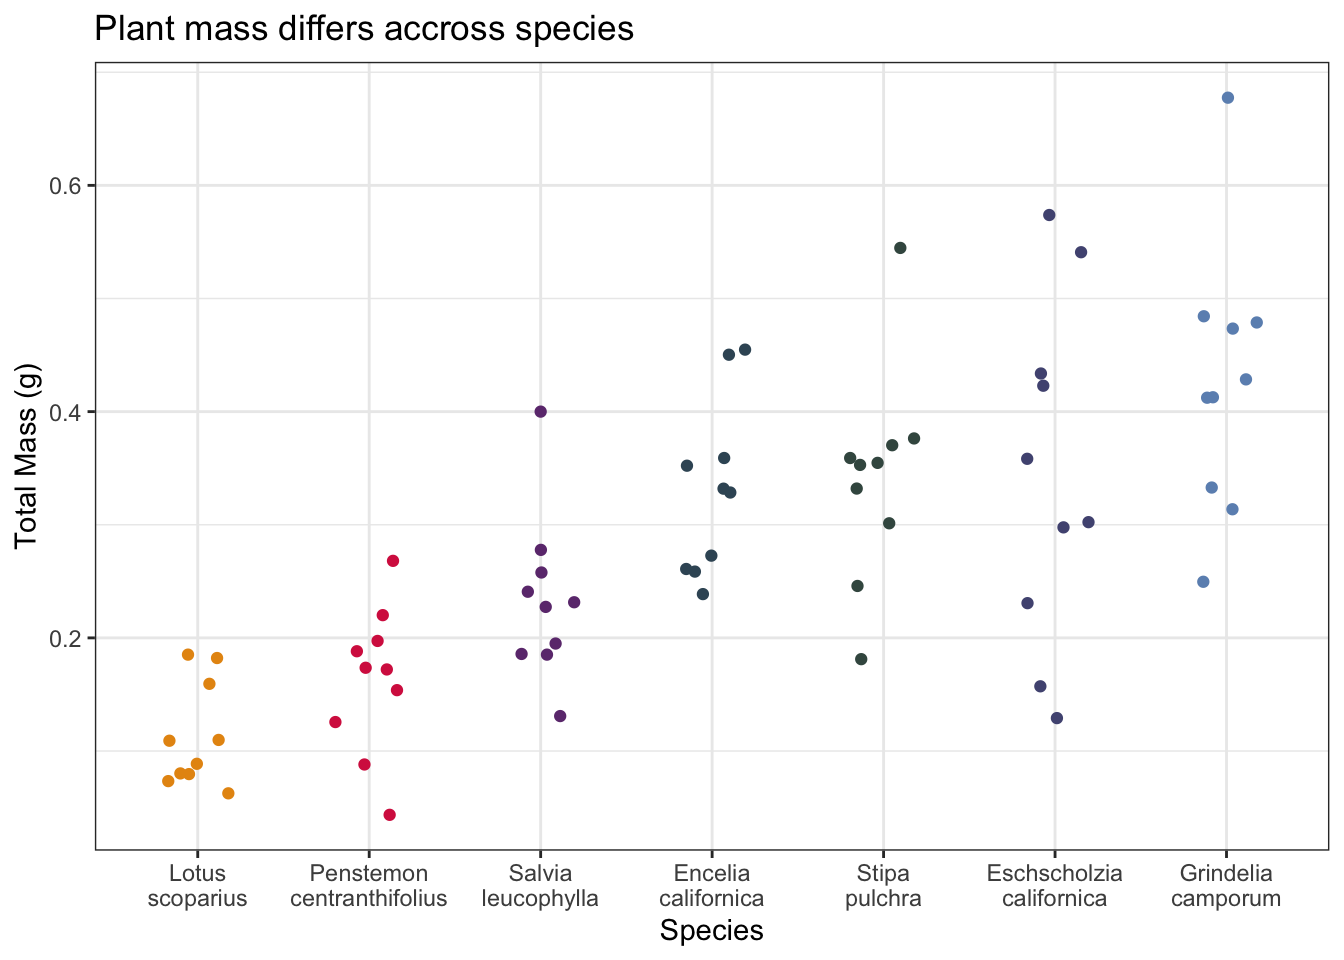
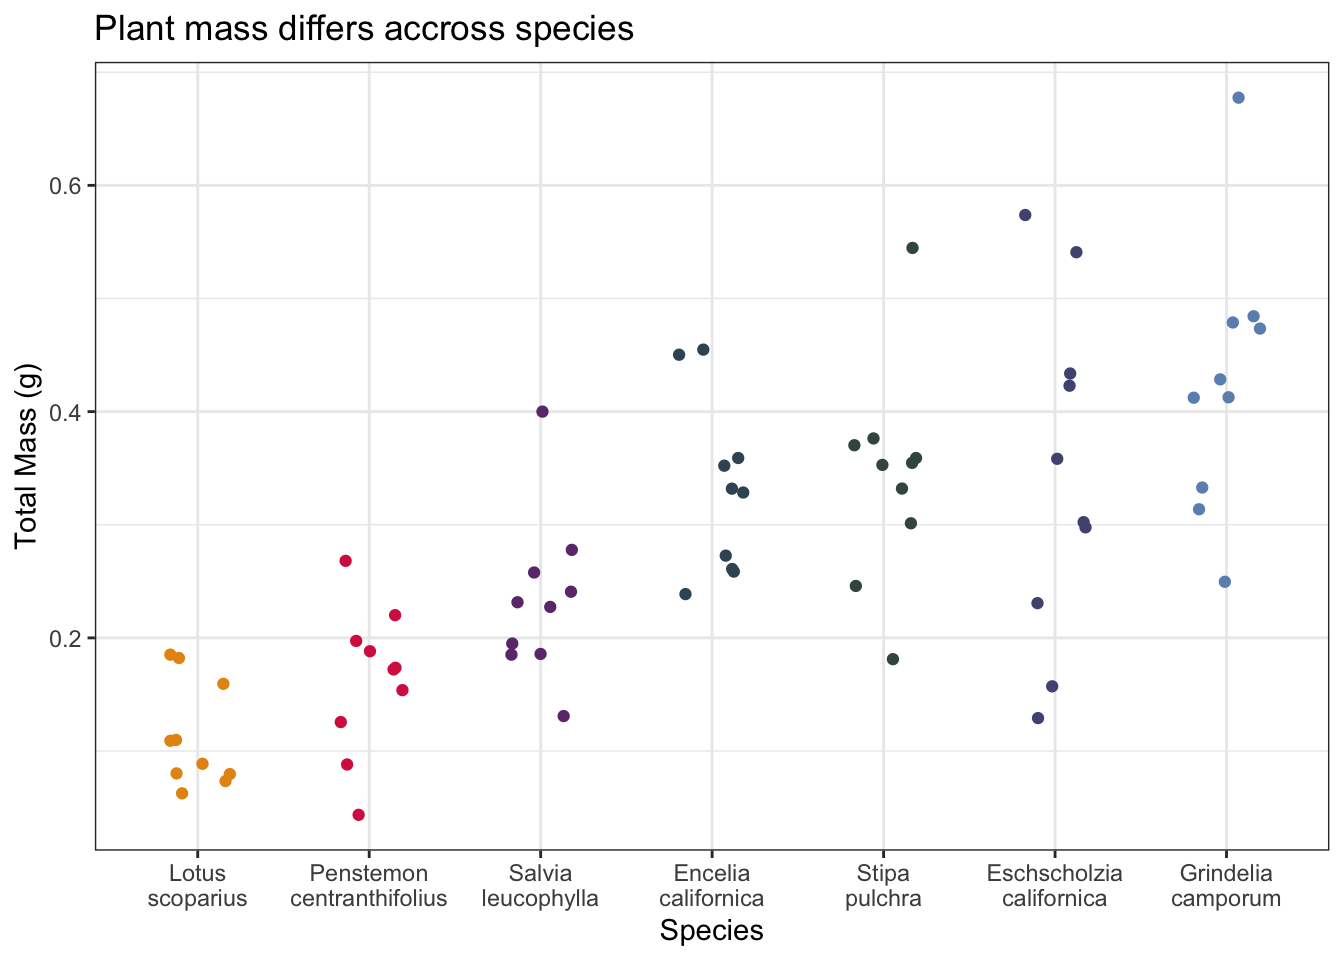
fitting and selecting models, generating predictions, making final figure

diff --git a/code/workshop-code.html b/code/workshop-code.html
@@ -73,6 +73,35 @@ pre > code.sourceCode > span > a:first-child::before { text-decoration: underlin
 <link href="workshop-code_files/libs/bootstrap/bootstrap-icons.css" rel="stylesheet">
 <link href="workshop-code_files/libs/bootstrap/bootstrap-d6a003b94517c951b2d65075d42fb01b.min.css" rel="stylesheet" append-hash="true" id="quarto-bootstrap" data-mode="light">
 
+  <script src="https://cdnjs.cloudflare.com/polyfill/v3/polyfill.min.js?features=es6"></script>
+  <script src="https://cdn.jsdelivr.net/npm/mathjax@3/es5/tex-chtml-full.js" type="text/javascript"></script>
+
+<script type="text/javascript">
+const typesetMath = (el) => {
+  if (window.MathJax) {
+    // MathJax Typeset
+    window.MathJax.typeset([el]);
+  } else if (window.katex) {
+    // KaTeX Render
+    var mathElements = el.getElementsByClassName("math");
+    var macros = [];
+    for (var i = 0; i < mathElements.length; i++) {
+      var texText = mathElements[i].firstChild;
+      if (mathElements[i].tagName == "SPAN" && texText && texText.data) {
+        window.katex.render(texText.data, mathElements[i], {
+          displayMode: mathElements[i].classList.contains('display'),
+          throwOnError: false,
+          macros: macros,
+          fleqn: false
+        });
+      }
+    }
+  }
+}
+window.Quarto = {
+  typesetMath
+};
+</script>
 
 </head>
 
@@ -301,16 +330,16 @@ pre > code.sourceCode > span > a:first-child::before { text-decoration: underlin
 <pre><code># A tibble: 10 × 4
    species_name               water_treatment    sla total_g
    &lt;fct&gt;                      &lt;fct&gt;            &lt;dbl&gt;   &lt;dbl&gt;
- 1 Penstemon centranthifolius Drought stressed 161.    0.174
- 2 Penstemon centranthifolius Well watered     129.    0.220
- 3 Salvia leucophylla         Well watered      99.7   0.241
- 4 Salvia leucophylla         Well watered     127.    0.258
- 5 Grindelia camporum         Well watered     205.    0.412
- 6 Penstemon centranthifolius Well watered     160.    0.172
- 7 Grindelia camporum         Well watered     213.    0.678
- 8 Grindelia camporum         Well watered     191.    0.484
- 9 Salvia leucophylla         Drought stressed  77.6   0.186
-10 Eschscholzia californica   Drought stressed 109.    0.298</code></pre>
+ 1 Lotus scoparius            Well watered     137.   0.109 
+ 2 Stipa pulchra              Well watered     159.   0.353 
+ 3 Lotus scoparius            Drought stressed  90.9  0.0796
+ 4 Lotus scoparius            Drought stressed 107.   0.159 
+ 5 Grindelia camporum         Drought stressed 171.   0.250 
+ 6 Encelia californica        Drought stressed 161.   0.273 
+ 7 Penstemon centranthifolius Well watered     158.   0.154 
+ 8 Salvia leucophylla         Well watered      99.7  0.241 
+ 9 Eschscholzia californica   Drought stressed 107.   0.302 
+10 Encelia californica        Drought stressed 196.   0.239 </code></pre>
 </div>
 </div>
 </section>
@@ -493,55 +522,154 @@ pre > code.sourceCode > span > a:first-child::before { text-decoration: underlin
 <h2 class="anchored" data-anchor-id="model-fitting">Model fitting</h2>
 <div class="cell">
 <div class="code-copy-outer-scaffold"><div class="sourceCode cell-code" id="cb11"><pre class="sourceCode r code-with-copy"><code class="sourceCode r"><span id="cb11-1"><a href="#cb11-1" aria-hidden="true" tabindex="-1"></a><span class="co"># model 0: null model</span></span>
-<span id="cb11-2"><a href="#cb11-2" aria-hidden="true" tabindex="-1"></a></span>
-<span id="cb11-3"><a href="#cb11-3" aria-hidden="true" tabindex="-1"></a></span>
-<span id="cb11-4"><a href="#cb11-4" aria-hidden="true" tabindex="-1"></a><span class="co"># model 1: all predictors</span></span>
+<span id="cb11-2"><a href="#cb11-2" aria-hidden="true" tabindex="-1"></a>model0 <span class="ot">&lt;-</span><span class="fu">lm</span>(</span>
+<span id="cb11-3"><a href="#cb11-3" aria-hidden="true" tabindex="-1"></a>  total_g <span class="sc">~</span> <span class="dv">1</span>, <span class="co"># no predicotrs</span></span>
+<span id="cb11-4"><a href="#cb11-4" aria-hidden="true" tabindex="-1"></a>  <span class="at">data =</span> drought_exp_clean)</span>
 <span id="cb11-5"><a href="#cb11-5" aria-hidden="true" tabindex="-1"></a></span>
-<span id="cb11-6"><a href="#cb11-6" aria-hidden="true" tabindex="-1"></a></span>
-<span id="cb11-7"><a href="#cb11-7" aria-hidden="true" tabindex="-1"></a><span class="co"># model 2: SLA and water treatment</span></span>
-<span id="cb11-8"><a href="#cb11-8" aria-hidden="true" tabindex="-1"></a></span>
-<span id="cb11-9"><a href="#cb11-9" aria-hidden="true" tabindex="-1"></a></span>
-<span id="cb11-10"><a href="#cb11-10" aria-hidden="true" tabindex="-1"></a><span class="co"># model 3: SLA and species</span></span>
+<span id="cb11-6"><a href="#cb11-6" aria-hidden="true" tabindex="-1"></a><span class="co"># model 1: all predictors</span></span>
+<span id="cb11-7"><a href="#cb11-7" aria-hidden="true" tabindex="-1"></a></span>
+<span id="cb11-8"><a href="#cb11-8" aria-hidden="true" tabindex="-1"></a>model1 <span class="ot">&lt;-</span><span class="fu">lm</span>(</span>
+<span id="cb11-9"><a href="#cb11-9" aria-hidden="true" tabindex="-1"></a>  total_g <span class="sc">~</span> sla <span class="sc">+</span> water_treatment <span class="sc">+</span> species_name,</span>
+<span id="cb11-10"><a href="#cb11-10" aria-hidden="true" tabindex="-1"></a>  <span class="at">data =</span> drought_exp_clean)</span>
 <span id="cb11-11"><a href="#cb11-11" aria-hidden="true" tabindex="-1"></a></span>
-<span id="cb11-12"><a href="#cb11-12" aria-hidden="true" tabindex="-1"></a></span>
-<span id="cb11-13"><a href="#cb11-13" aria-hidden="true" tabindex="-1"></a><span class="co"># model 4: water treatment and species</span></span>
-<span id="cb11-14"><a href="#cb11-14" aria-hidden="true" tabindex="-1"></a></span>
-<span id="cb11-15"><a href="#cb11-15" aria-hidden="true" tabindex="-1"></a></span>
-<span id="cb11-16"><a href="#cb11-16" aria-hidden="true" tabindex="-1"></a><span class="co"># model 5: SLA</span></span>
+<span id="cb11-12"><a href="#cb11-12" aria-hidden="true" tabindex="-1"></a><span class="co"># model 2: SLA and water treatment</span></span>
+<span id="cb11-13"><a href="#cb11-13" aria-hidden="true" tabindex="-1"></a></span>
+<span id="cb11-14"><a href="#cb11-14" aria-hidden="true" tabindex="-1"></a>model2 <span class="ot">&lt;-</span><span class="fu">lm</span>(</span>
+<span id="cb11-15"><a href="#cb11-15" aria-hidden="true" tabindex="-1"></a>  total_g <span class="sc">~</span> sla <span class="sc">+</span> water_treatment, </span>
+<span id="cb11-16"><a href="#cb11-16" aria-hidden="true" tabindex="-1"></a>  <span class="at">data =</span> drought_exp_clean)</span>
 <span id="cb11-17"><a href="#cb11-17" aria-hidden="true" tabindex="-1"></a></span>
-<span id="cb11-18"><a href="#cb11-18" aria-hidden="true" tabindex="-1"></a></span>
-<span id="cb11-19"><a href="#cb11-19" aria-hidden="true" tabindex="-1"></a><span class="co"># model 6: water treatment</span></span>
-<span id="cb11-20"><a href="#cb11-20" aria-hidden="true" tabindex="-1"></a></span>
-<span id="cb11-21"><a href="#cb11-21" aria-hidden="true" tabindex="-1"></a></span>
-<span id="cb11-22"><a href="#cb11-22" aria-hidden="true" tabindex="-1"></a><span class="co"># model 7: species</span></span></code></pre></div><button title="Copy to Clipboard" class="code-copy-button"><i class="bi"></i></button></div>
+<span id="cb11-18"><a href="#cb11-18" aria-hidden="true" tabindex="-1"></a><span class="co"># model 3: SLA and species</span></span>
+<span id="cb11-19"><a href="#cb11-19" aria-hidden="true" tabindex="-1"></a></span>
+<span id="cb11-20"><a href="#cb11-20" aria-hidden="true" tabindex="-1"></a>model3 <span class="ot">&lt;-</span><span class="fu">lm</span>(</span>
+<span id="cb11-21"><a href="#cb11-21" aria-hidden="true" tabindex="-1"></a>  total_g <span class="sc">~</span> sla <span class="sc">+</span> species_name, </span>
+<span id="cb11-22"><a href="#cb11-22" aria-hidden="true" tabindex="-1"></a>  <span class="at">data =</span> drought_exp_clean)</span>
+<span id="cb11-23"><a href="#cb11-23" aria-hidden="true" tabindex="-1"></a></span>
+<span id="cb11-24"><a href="#cb11-24" aria-hidden="true" tabindex="-1"></a><span class="co"># model 4: water treatment and species</span></span>
+<span id="cb11-25"><a href="#cb11-25" aria-hidden="true" tabindex="-1"></a></span>
+<span id="cb11-26"><a href="#cb11-26" aria-hidden="true" tabindex="-1"></a>model4 <span class="ot">&lt;-</span><span class="fu">lm</span>(</span>
+<span id="cb11-27"><a href="#cb11-27" aria-hidden="true" tabindex="-1"></a>  total_g <span class="sc">~</span> water_treatment <span class="sc">+</span> species_name, </span>
+<span id="cb11-28"><a href="#cb11-28" aria-hidden="true" tabindex="-1"></a>  <span class="at">data =</span> drought_exp_clean)</span>
+<span id="cb11-29"><a href="#cb11-29" aria-hidden="true" tabindex="-1"></a></span>
+<span id="cb11-30"><a href="#cb11-30" aria-hidden="true" tabindex="-1"></a><span class="co"># model 5: SLA</span></span>
+<span id="cb11-31"><a href="#cb11-31" aria-hidden="true" tabindex="-1"></a></span>
+<span id="cb11-32"><a href="#cb11-32" aria-hidden="true" tabindex="-1"></a>model5 <span class="ot">&lt;-</span><span class="fu">lm</span>(</span>
+<span id="cb11-33"><a href="#cb11-33" aria-hidden="true" tabindex="-1"></a>  total_g <span class="sc">~</span> sla,</span>
+<span id="cb11-34"><a href="#cb11-34" aria-hidden="true" tabindex="-1"></a>  <span class="at">data =</span> drought_exp_clean)</span>
+<span id="cb11-35"><a href="#cb11-35" aria-hidden="true" tabindex="-1"></a></span>
+<span id="cb11-36"><a href="#cb11-36" aria-hidden="true" tabindex="-1"></a><span class="co"># model 6: water treatment</span></span>
+<span id="cb11-37"><a href="#cb11-37" aria-hidden="true" tabindex="-1"></a></span>
+<span id="cb11-38"><a href="#cb11-38" aria-hidden="true" tabindex="-1"></a>model6 <span class="ot">&lt;-</span><span class="fu">lm</span>(</span>
+<span id="cb11-39"><a href="#cb11-39" aria-hidden="true" tabindex="-1"></a>  total_g <span class="sc">~</span> water_treatment,</span>
+<span id="cb11-40"><a href="#cb11-40" aria-hidden="true" tabindex="-1"></a>  <span class="at">data =</span> drought_exp_clean)</span>
+<span id="cb11-41"><a href="#cb11-41" aria-hidden="true" tabindex="-1"></a></span>
+<span id="cb11-42"><a href="#cb11-42" aria-hidden="true" tabindex="-1"></a><span class="co"># model 7: species</span></span>
+<span id="cb11-43"><a href="#cb11-43" aria-hidden="true" tabindex="-1"></a></span>
+<span id="cb11-44"><a href="#cb11-44" aria-hidden="true" tabindex="-1"></a>model7 <span class="ot">&lt;-</span><span class="fu">lm</span>(</span>
+<span id="cb11-45"><a href="#cb11-45" aria-hidden="true" tabindex="-1"></a>  total_g <span class="sc">~</span> species_name,</span>
+<span id="cb11-46"><a href="#cb11-46" aria-hidden="true" tabindex="-1"></a>  <span class="at">data =</span> drought_exp_clean)</span></code></pre></div><button title="Copy to Clipboard" class="code-copy-button"><i class="bi"></i></button></div>
 </div>
 </section>
 <section id="model-selection" class="level2">
 <h2 class="anchored" data-anchor-id="model-selection">Model selection</h2>
 <p>Insert code to use the <code>AICc()</code> function to calculate the AIC for each model.</p>
 <p>Arrange by decreasing AIC.</p>
+<div class="cell">
+<div class="code-copy-outer-scaffold"><div class="sourceCode cell-code" id="cb12"><pre class="sourceCode r code-with-copy"><code class="sourceCode r"><span id="cb12-1"><a href="#cb12-1" aria-hidden="true" tabindex="-1"></a><span class="fu">AICc</span>(</span>
+<span id="cb12-2"><a href="#cb12-2" aria-hidden="true" tabindex="-1"></a>  model0,</span>
+<span id="cb12-3"><a href="#cb12-3" aria-hidden="true" tabindex="-1"></a>  model1,</span>
+<span id="cb12-4"><a href="#cb12-4" aria-hidden="true" tabindex="-1"></a>  model2,</span>
+<span id="cb12-5"><a href="#cb12-5" aria-hidden="true" tabindex="-1"></a>  model3,</span>
+<span id="cb12-6"><a href="#cb12-6" aria-hidden="true" tabindex="-1"></a>  model4,</span>
+<span id="cb12-7"><a href="#cb12-7" aria-hidden="true" tabindex="-1"></a>  model5,</span>
+<span id="cb12-8"><a href="#cb12-8" aria-hidden="true" tabindex="-1"></a>  model6,</span>
+<span id="cb12-9"><a href="#cb12-9" aria-hidden="true" tabindex="-1"></a>  model7</span>
+<span id="cb12-10"><a href="#cb12-10" aria-hidden="true" tabindex="-1"></a>) <span class="sc">|&gt;</span> </span>
+<span id="cb12-11"><a href="#cb12-11" aria-hidden="true" tabindex="-1"></a>  <span class="fu">arrange</span>(AICc)</span></code></pre></div><button title="Copy to Clipboard" class="code-copy-button"><i class="bi"></i></button></div>
+<div class="cell-output cell-output-stdout">
+<pre><code>       df       AICc
+model4  9 -156.19595
+model1 10 -153.75361
+model3  9 -124.07569
+model7  8 -120.30191
+model2  4  -95.82521
+model5  3  -88.85180
+model6  3  -86.76661
+model0  2  -74.98036</code></pre>
+</div>
+</div>
+<p>The best model to describe variation in plalnt mass only includes water treatment and species. We know this because it has the lowest AIC</p>
 </section>
 <section id="model-diagnostics" class="level2">
 <h2 class="anchored" data-anchor-id="model-diagnostics">Model diagnostics</h2>
 <p>Insert code to look at the diagnostic plots for the best model.</p>
+<div class="cell">
+<div class="code-copy-outer-scaffold"><div class="sourceCode cell-code" id="cb14"><pre class="sourceCode r code-with-copy"><code class="sourceCode r"><span id="cb14-1"><a href="#cb14-1" aria-hidden="true" tabindex="-1"></a><span class="fu">par</span>(<span class="at">mfrow =</span> <span class="fu">c</span>(<span class="dv">2</span>, <span class="dv">2</span>)) <span class="co"># display plots in a 2x2 grid</span></span>
+<span id="cb14-2"><a href="#cb14-2" aria-hidden="true" tabindex="-1"></a><span class="fu">plot</span>(model4) <span class="co"># model to check diagnostics</span></span></code></pre></div><button title="Copy to Clipboard" class="code-copy-button"><i class="bi"></i></button></div>
+<div class="cell-output-display">
+<div>
+<figure class="figure">
+<p><img src="workshop-code_files/figure-html/checking%20diagnostics-1.png" class="img-fluid figure-img" width="672"></p>
+</figure>
+</div>
+</div>
+</div>
+<p>Diagnostic plots look good.</p>
+<p>Residuals (standing in for errors) look normally distributed based on qqplot.</p>
+<p>Residuals look homoscedastic (have constant variance) based on Residuals vs Fitted plot and Scale-Location plot.</p>
+<p>No outliers influencing model estimates of coefficients.</p>
 </section>
 <section id="summary" class="level2">
 <h2 class="anchored" data-anchor-id="summary">Summary</h2>
 <p>Insert code to display the summary for the best model.</p>
+<div class="cell">
+<div class="code-copy-outer-scaffold"><div class="sourceCode cell-code" id="cb15"><pre class="sourceCode r code-with-copy"><code class="sourceCode r"><span id="cb15-1"><a href="#cb15-1" aria-hidden="true" tabindex="-1"></a><span class="fu">summary</span>(model4)</span></code></pre></div><button title="Copy to Clipboard" class="code-copy-button"><i class="bi"></i></button></div>
+<div class="cell-output cell-output-stdout">
+<pre><code>
+Call:
+lm(formula = total_g ~ water_treatment + species_name, data = drought_exp_clean)
+
+Residuals:
+      Min        1Q    Median        3Q       Max 
+-0.157087 -0.046953 -0.003733  0.041244  0.192657 
+
+Coefficients:
+                                       Estimate Std. Error t value Pr(&gt;|t|)    
+(Intercept)                             0.05455    0.02451   2.225  0.02973 *  
+water_treatmentWell watered             0.11695    0.01733   6.746 5.90e-09 ***
+species_namePenstemon centranthifolius  0.05003    0.03243   1.543  0.12799    
+species_nameSalvia leucophylla          0.12020    0.03243   3.706  0.00045 ***
+species_nameEncelia californica         0.21774    0.03243   6.714 6.70e-09 ***
+species_nameStipa pulchra               0.22881    0.03243   7.055 1.72e-09 ***
+species_nameEschscholzia californica    0.23164    0.03243   7.143 1.22e-09 ***
+species_nameGrindelia camporum          0.31335    0.03243   9.662 5.53e-14 ***
+---
+Signif. codes:  0 '***' 0.001 '**' 0.01 '*' 0.05 '.' 0.1 ' ' 1
+
+Residual standard error: 0.07252 on 62 degrees of freedom
+Multiple R-squared:  0.7535,    Adjusted R-squared:  0.7257 
+F-statistic: 27.08 on 7 and 62 DF,  p-value: &lt; 2.2e-16</code></pre>
+</div>
+</div>
 <p><strong>What are the reference levels?</strong></p>
+<p>Drought stressed is the reference level for water treatment, and lotus scoparius is the reference level for species name. This is because lotus came first and drought stress came first at the top of factor relevel.</p>
 <p><strong>What does the <code>(Intercept)</code> represent?</strong></p>
+<p>The intercept is the model prediction for plant mass for lotus scoparius in the drought stressed treatment. The intercept represents the model estimate when all predictors are at the reference level. The model predicts that lotus scoparius mass in the drought stressed treatment will be 0.055 <span class="math inline">\(\pm\)</span> 0.025 (SE) g.</p>
 <p><strong>What does <code>water_treatmentWell watered</code> represent?</strong></p>
+<p>This is the model prediction for the difference in lotus scoparius mass between the well watered and drought stressed treatments. The model predicts that this difference is 0.12 <span class="math inline">\(\pm\)</span> 0.017 g.</p>
 <p><strong>What does <code>species_namePenstemon centranthifolius</code> represent?</strong></p>
+<p>This is the model prediction for the difference between Penstemon centranthifolius mass in the well watered treatment and Lotus scoparius mass in the well watered treatment. The model predicts that this difference is 0.05 <span class="math inline">\(\pm\)</span> 0.03 g.</p>
 <p><strong>What does <code>species_nameEschscholzia californica</code> represent?</strong></p>
+<p>This is the model prediction for the difference between Eschsholzia californica mass in the weel watered treatment and Lotus scoparius mass in the well watered treament. The mode predicts that this difference is 0.23 <span class="math inline">\(\pm\)</span> 0.03 g.</p>
 </section>
 <section id="stop-and-think-what-does-this-model-mean" class="level2">
 <h2 class="anchored" data-anchor-id="stop-and-think-what-does-this-model-mean">Stop and think: what does this model mean?</h2>
 <p><strong>What is the best model?</strong></p>
-<p>[insert your response here]</p>
+<p>The best model includes water treatment and species as predictors</p>
 <p><strong>How much variation in the response (total mass, in grams) does this model explain?</strong></p>
-<p>[insert your response here]</p>
+<p>Adjusted R-squared: 0.7257 72% of the variation in plant mass can be explained by this model</p>
 <p><strong>How do we interpret the effects of the predictors on the response variable (again, total mass in grams)?</strong></p>
-<p>[insert your response here]</p>
+<p>Treatment influences plant mass.</p>
+<p>Species influences plant mass.</p>
 </section>
 </section>
 <section id="model-predictions" class="level1">
@@ -549,10 +677,50 @@ pre > code.sourceCode > span > a:first-child::before { text-decoration: underlin
 <p>Insert code to generate model predictions for the best model.</p>
 <p>Rename the <code>x</code> column and <code>group</code> column to match the original data frame (<code>drought_exp_clean</code>).</p>
 <p>Look at the object before plotting.</p>
+<div class="cell">
+<div class="code-copy-outer-scaffold"><div class="sourceCode cell-code" id="cb17"><pre class="sourceCode r code-with-copy"><code class="sourceCode r"><span id="cb17-1"><a href="#cb17-1" aria-hidden="true" tabindex="-1"></a>preds <span class="ot">&lt;-</span> <span class="fu">ggpredict</span>(</span>
+<span id="cb17-2"><a href="#cb17-2" aria-hidden="true" tabindex="-1"></a>  model4, </span>
+<span id="cb17-3"><a href="#cb17-3" aria-hidden="true" tabindex="-1"></a>  <span class="at">terms =</span> <span class="fu">c</span>(<span class="st">"water_treatment"</span>, <span class="st">"species_name"</span>)) <span class="sc">|&gt;</span> </span>
+<span id="cb17-4"><a href="#cb17-4" aria-hidden="true" tabindex="-1"></a>  <span class="fu">rename</span>(<span class="at">water_treatment =</span> <span class="st">"x"</span>,</span>
+<span id="cb17-5"><a href="#cb17-5" aria-hidden="true" tabindex="-1"></a>         <span class="at">species_name =</span> <span class="st">"group"</span>)</span></code></pre></div><button title="Copy to Clipboard" class="code-copy-button"><i class="bi"></i></button></div>
+</div>
 </section>
 <section id="final-figure" class="level1">
 <h1>5. Final figure</h1>
 <p>Create a clean, publication ready figure depicting predictions for the best model and the underlying data.</p>
+<div class="cell">
+<div class="code-copy-outer-scaffold"><div class="sourceCode cell-code" id="cb18"><pre class="sourceCode r code-with-copy"><code class="sourceCode r"><span id="cb18-1"><a href="#cb18-1" aria-hidden="true" tabindex="-1"></a><span class="co"># base layer: ggplot call</span></span>
+<span id="cb18-2"><a href="#cb18-2" aria-hidden="true" tabindex="-1"></a><span class="fu">ggplot</span>(<span class="at">data =</span> drought_exp_clean, <span class="co"># starting with maples_2003 data frame</span></span>
+<span id="cb18-3"><a href="#cb18-3" aria-hidden="true" tabindex="-1"></a>       <span class="fu">aes</span>(<span class="at">x =</span> water_treatment, <span class="co"># watershed on the x-axis</span></span>
+<span id="cb18-4"><a href="#cb18-4" aria-hidden="true" tabindex="-1"></a>           <span class="at">y =</span> total_g, <span class="co"># stem length on the y-axis </span></span>
+<span id="cb18-5"><a href="#cb18-5" aria-hidden="true" tabindex="-1"></a>           <span class="at">color =</span> water_treatment)) <span class="sc">+</span> <span class="co"># coloring by watershed</span></span>
+<span id="cb18-6"><a href="#cb18-6" aria-hidden="true" tabindex="-1"></a>  <span class="fu">geom_jitter</span>(<span class="at">height =</span> <span class="dv">0</span>, <span class="co"># second layer: jitter</span></span>
+<span id="cb18-7"><a href="#cb18-7" aria-hidden="true" tabindex="-1"></a>              <span class="at">width =</span> <span class="fl">0.2</span>,</span>
+<span id="cb18-8"><a href="#cb18-8" aria-hidden="true" tabindex="-1"></a>              <span class="at">alpha =</span> <span class="fl">0.5</span>,</span>
+<span id="cb18-9"><a href="#cb18-9" aria-hidden="true" tabindex="-1"></a>              <span class="at">shape =</span> <span class="dv">21</span>) <span class="sc">+</span></span>
+<span id="cb18-10"><a href="#cb18-10" aria-hidden="true" tabindex="-1"></a>  <span class="fu">geom_pointrange</span>(<span class="at">data =</span> preds,</span>
+<span id="cb18-11"><a href="#cb18-11" aria-hidden="true" tabindex="-1"></a>                  <span class="fu">aes</span>(<span class="at">x =</span> water_treatment,</span>
+<span id="cb18-12"><a href="#cb18-12" aria-hidden="true" tabindex="-1"></a>                      <span class="at">y=</span> predicted,</span>
+<span id="cb18-13"><a href="#cb18-13" aria-hidden="true" tabindex="-1"></a>                      <span class="at">ymin =</span> conf.low,</span>
+<span id="cb18-14"><a href="#cb18-14" aria-hidden="true" tabindex="-1"></a>                      <span class="at">ymax =</span> conf.high)) <span class="sc">+</span></span>
+<span id="cb18-15"><a href="#cb18-15" aria-hidden="true" tabindex="-1"></a>  <span class="fu">scale_color_manual</span>(<span class="at">values =</span> <span class="fu">c</span>(</span>
+<span id="cb18-16"><a href="#cb18-16" aria-hidden="true" tabindex="-1"></a>    <span class="st">"Drought stressed"</span> <span class="ot">=</span> ds_col,</span>
+<span id="cb18-17"><a href="#cb18-17" aria-hidden="true" tabindex="-1"></a>    <span class="st">"Well watered"</span> <span class="ot">=</span> ww_col</span>
+<span id="cb18-18"><a href="#cb18-18" aria-hidden="true" tabindex="-1"></a>  )) <span class="sc">+</span></span>
+<span id="cb18-19"><a href="#cb18-19" aria-hidden="true" tabindex="-1"></a>  <span class="fu">scale_x_discrete</span>(<span class="at">labels =</span> <span class="fu">label_wrap</span>(<span class="dv">10</span>)) <span class="sc">+</span></span>
+<span id="cb18-20"><a href="#cb18-20" aria-hidden="true" tabindex="-1"></a>  <span class="fu">labs</span>(<span class="at">x =</span> <span class="st">"Water Treatment"</span>, <span class="co"># relabelling x axis</span></span>
+<span id="cb18-21"><a href="#cb18-21" aria-hidden="true" tabindex="-1"></a>       <span class="at">y =</span> <span class="st">"Total Mass (g)"</span>) <span class="sc">+</span> <span class="co"># relabelling y axis </span></span>
+<span id="cb18-22"><a href="#cb18-22" aria-hidden="true" tabindex="-1"></a>  <span class="fu">theme</span>(<span class="at">legend.position =</span> <span class="st">"none"</span>) <span class="sc">+</span> <span class="co"># removing legend</span></span>
+<span id="cb18-23"><a href="#cb18-23" aria-hidden="true" tabindex="-1"></a>  <span class="fu">facet_wrap</span>(<span class="sc">~</span> species_name,</span>
+<span id="cb18-24"><a href="#cb18-24" aria-hidden="true" tabindex="-1"></a>             <span class="at">nrow =</span> <span class="dv">1</span>)</span></code></pre></div><button title="Copy to Clipboard" class="code-copy-button"><i class="bi"></i></button></div>
+<div class="cell-output-display">
+<div>
+<figure class="figure">
+<p><img src="workshop-code_files/figure-html/final%20figure-1.png" class="img-fluid figure-img" width="1152"></p>
+</figure>
+</div>
+</div>
+</div>
 </section>
 <section id="writing" class="level1">
 <h1>6. Writing</h1>
